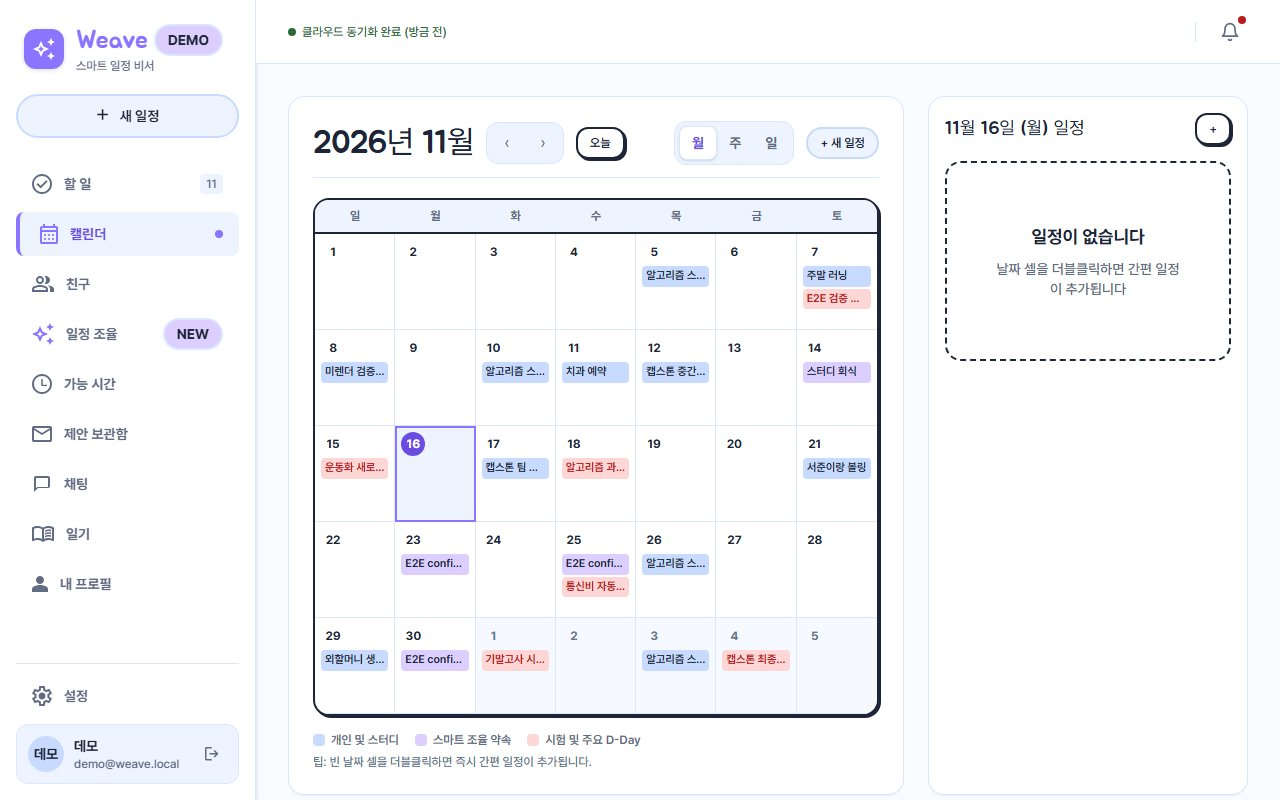
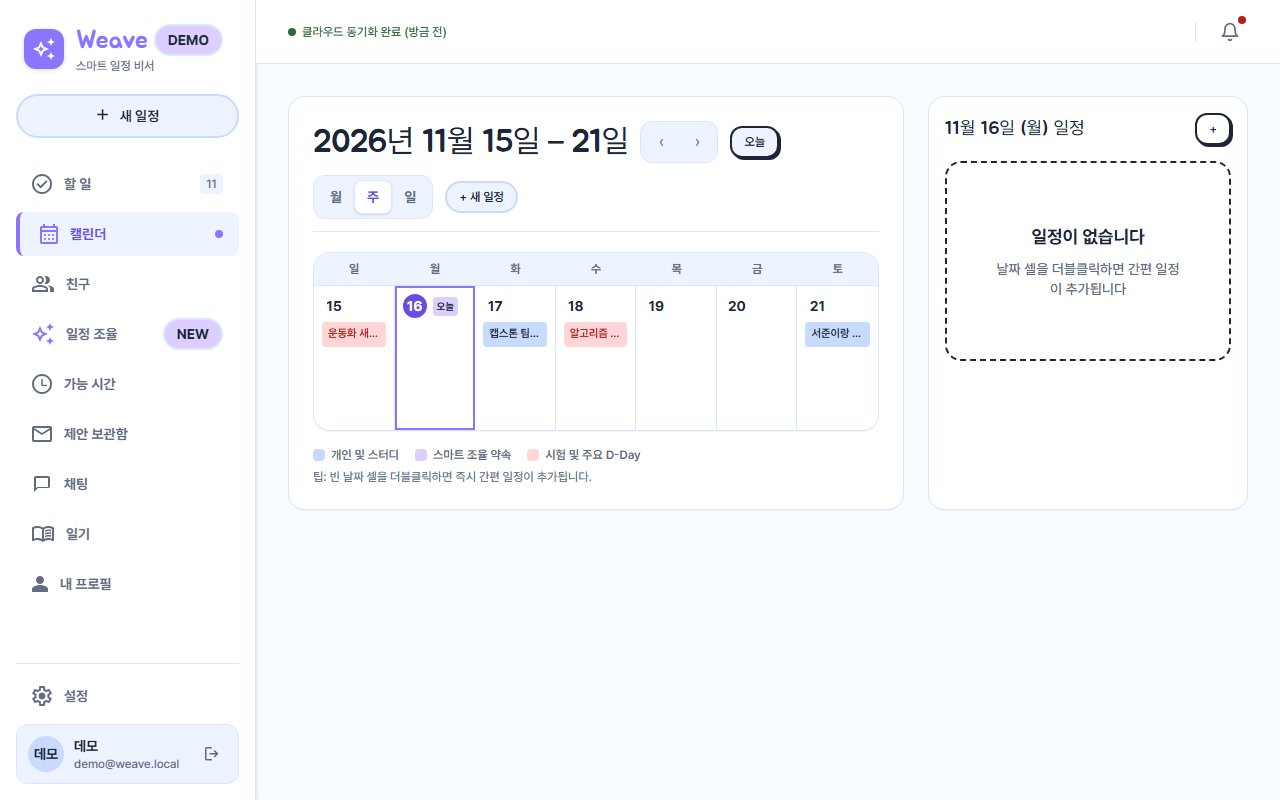
fix(fe): 랜딩 스크린샷 상태 보강 — 추천 결과·주간뷰·채팅방 캡처 + alt 정합

diff --git a/fe/src/features/landing/components/app-preview-section.tsx b/fe/src/features/landing/components/app-preview-section.tsx
@@ -6,17 +6,17 @@ import { LandingSection, SectionHeading } from './section-shell'
 const SHOTS = [
   {
     src: '/landing/shot-scheduling.jpg',
-    alt: '일정 조율 화면 — 친구별 가능 시간과 추천 슬롯',
+    alt: '일정 조율 화면 — AI 추천 슬롯 결과와 친구별 일정 겹침 타임테이블',
     label: '일정 조율',
   },
   {
     src: '/landing/shot-calendar.jpg',
-    alt: '캘린더 화면 — 내 일정과 친구의 바쁜 시간이 겹쳐진 주간 뷰',
-    label: '공유 캘린더',
+    alt: '캘린더 화면 — 내 일정이 표시된 주간 뷰',
+    label: '캘린더',
   },
   {
     src: '/landing/shot-chat.jpg',
-    alt: '채팅 화면 — 약속 관련 대화가 오가는 채팅방',
+    alt: '채팅 화면 — 확정을 준비 중인 약속의 단체 채팅방',
     label: '채팅',
   },
 ] as const
@@ -29,12 +29,12 @@ function ShotCard({ src, alt, label }: { src: string; alt: string; label: string
         cardClasses({ variant: 'brutal' }),
       )}
     >
-      <div className="flex items-center gap-1.5 border-b-2 border-border-strong bg-surface-muted px-4 py-2.5">
-        <span className="size-2.5 rounded-full bg-border-strong" />
-        <span className="size-2.5 rounded-full bg-border-strong" />
-        <span className="size-2.5 rounded-full bg-border-strong" />
+      <figcaption className="flex items-center gap-1.5 border-b-2 border-border-strong bg-surface-muted px-4 py-2.5">
+        <span aria-hidden="true" className="size-2.5 rounded-full bg-border-strong" />
+        <span aria-hidden="true" className="size-2.5 rounded-full bg-border-strong" />
+        <span aria-hidden="true" className="size-2.5 rounded-full bg-border-strong" />
         <span className="ml-2 text-xs font-bold text-text-secondary">{label}</span>
-      </div>
+      </figcaption>
       <img src={src} alt={alt} width={1280} height={800} loading="lazy" className="block w-full" />
     </figure>
   )

diff --git a/fe/src/features/landing/components/landing-screen.tsx b/fe/src/features/landing/components/landing-screen.tsx
@@ -11,8 +11,9 @@ import { HeroSection } from './hero-section'
 import { LandingFooter } from './landing-footer'
 import { LandingHeader } from './landing-header'
 
-// patterns.md §랜딩 구성 패턴 — Header → Hero(muted) → Problem(white)
-// → Features(muted) → Process(white) → Example(muted) → CTA(white) → Footer
+// patterns.md §랜딩 구성 패턴 — Header → Hero(primary) → Problem(white)
+// → Features(background) → Process(white) → Example(background)
+// → AppPreview(white) → CTA(accent) → Footer
 export function LandingScreen() {
   return (
     // 랜딩 등장은 앱 공통 stagger(200ms/40ms)보다 느리게 — 히어로·스크롤 리빌 체감 속도 조절

diff --git a/scripts/capture_landing_shots.py b/scripts/capture_landing_shots.py
@@ -21,14 +21,78 @@ ROOT = Path(__file__).resolve().parent.parent
 OUT_DIR = ROOT / 'fe' / 'public' / 'landing'
 
 SHOTS = [
-    {'name': 'shot-scheduling', 'path': '/app/scheduling', 'nav': '일정 조율'},
-    {'name': 'shot-calendar', 'path': '/app/calendar', 'nav': '캘린더'},
-    {'name': 'shot-chat', 'path': '/app/chat', 'nav': '채팅'},
+    {'name': 'shot-scheduling', 'path': '/app/scheduling', 'nav': '일정 조율', 'prepare': 'scheduling'},
+    {'name': 'shot-calendar', 'path': '/app/calendar', 'nav': '캘린더', 'prepare': 'calendar'},
+    {'name': 'shot-chat', 'path': '/app/chat', 'nav': '채팅', 'prepare': 'chat'},
     {'name': 'shot-diary', 'path': '/app/diary', 'nav': '일기'},
 ]
 
 DEMO_LOGIN_TEXT = '데모로 둘러보기'
 BOOTING_TEXT = '세션을 복원하고 있어요'
+
+
+def check_friends(page, n=2):
+    # input을 label이 감싸고 있어 label 클릭이 더 안정적이다
+    labels = page.locator('form li label')
+    for i in range(min(n, labels.count())):
+        labels.nth(i).click()
+
+
+def prep_scheduling(page):
+    """3단계 위자드 — 친구 2명 선택 후 추천 실행. 실패 시 리셋 후 현재 상태를 캡처한다."""
+    try:
+        labels = page.locator('form li label')
+        if labels.count() == 0:
+            print('    warn: 친구 목록 없음 — 위자드 초기 상태로 캡처')
+            return
+        check_friends(page)
+        page.get_by_role('button', name='AI 추천 슬롯 찾기').click()
+        # 추천 결과·빈 결과·폼 에러 모두 종료 상태로 간주한다
+        done = (
+            page.get_by_text('BEST 추천 슬롯')
+            .or_(page.get_by_text('모두 가능한 시간이 없어요'))
+            .or_(page.locator('[role="alert"]'))
+            .first
+        )
+        try:
+            done.wait_for(timeout=60000)
+            state = '추천 결과' if page.get_by_text('BEST 추천 슬롯').count() > 0 else '빈 결과/폼 에러'
+            print(f'    scheduling: {state} 캡처')
+        except PlaywrightTimeoutError:
+            # 추천 무응답 — 캘린더→일정 조율로 SPA 왕복해 위자드를 리셋하고,
+            # 빈 위자드보다 낫도록 친구 2명을 다시 선택한 상태로 캡처한다
+            print('    warn: 추천 결과 타임아웃 — 위자드 리셋 후 친구 선택 상태로 캡처')
+            page.get_by_role('link', name='캘린더', exact=True).click()
+            page.wait_for_timeout(800)
+            page.get_by_role('link', name='일정 조율', exact=True).click()
+            page.wait_for_timeout(1200)
+            check_friends(page)
+    except PlaywrightTimeoutError as e:
+        print(f'    warn: scheduling 준비 실패({e}) — 현재 상태로 캡처')
+
+
+def prep_calendar(page):
+    """주간 뷰로 전환 — 탭 클릭 후 그리드 렌더 대기."""
+    page.get_by_role('tablist', name='캘린더 뷰').get_by_role('tab', name='주').click()
+    page.wait_for_timeout(800)
+
+
+def prep_chat(page):
+    """첫 채팅방 진입 — 방이 없으면 목록 상태를 그대로 캡처한다."""
+    room = page.locator('main a[href^="/app/chat/"]').first
+    if room.count() == 0:
+        print('    chat: 채팅방 없음 — 목록 상태로 캡처')
+        return
+    room.click()
+    page.wait_for_timeout(1500)
+    print('    chat: 채팅방 상세 캡처')
+
+
+PREPARE = {
+    'scheduling': prep_scheduling,
+    'calendar': prep_calendar,
+    'chat': prep_chat,
+}
 
 
 def main():
@@ -55,10 +119,7 @@ def main():
         page.get_by_text(BOOTING_TEXT).wait_for(state='hidden', timeout=15000)
         page.wait_for_timeout(2500)
 
-        for shot in SHOTS:
-            # 인증 화면 이동은 SPA nav 클릭 — page.goto의 풀 리로드는
-            # 인메모리 토큰 유실로 auth guard가 랜딩으로 튕긴다
-            page.get_by_role('link', name=shot['nav'], exact=True).click()
+        def wait_skeleton():
             # 스켈레톤(role=status)이 사라질 때까지 대기 — be 응답 지연 시
             # 로딩 상태가 마케팅 자산으로 저장되는 것을 막는다. 스켈레톤이
             # 없는 화면은 즉시 통과. websocket(STOMP) 영향 없는 DOM 대기 사용.
@@ -67,6 +128,16 @@ def main():
                 page.locator('[role="status"][aria-label="불러오는 중"]').first.wait_for(state='detached', timeout=10000)
             except PlaywrightTimeoutError:
                 pass
+
+        for shot in SHOTS:
+            # 인증 화면 이동은 SPA nav 클릭 — page.goto의 풀 리로드는
+            # 인메모리 토큰 유실로 auth guard가 랜딩으로 튕긴다
+            page.get_by_role('link', name=shot['nav'], exact=True).click()
+            wait_skeleton()
+            prepare = PREPARE.get(shot.get('prepare'))
+            if prepare is not None:
+                prepare(page)
+                wait_skeleton()
             page.wait_for_timeout(400)
             out = OUT_DIR / f"{shot['name']}.jpg"
             page.screenshot(path=str(out), type='jpeg', quality=85)
